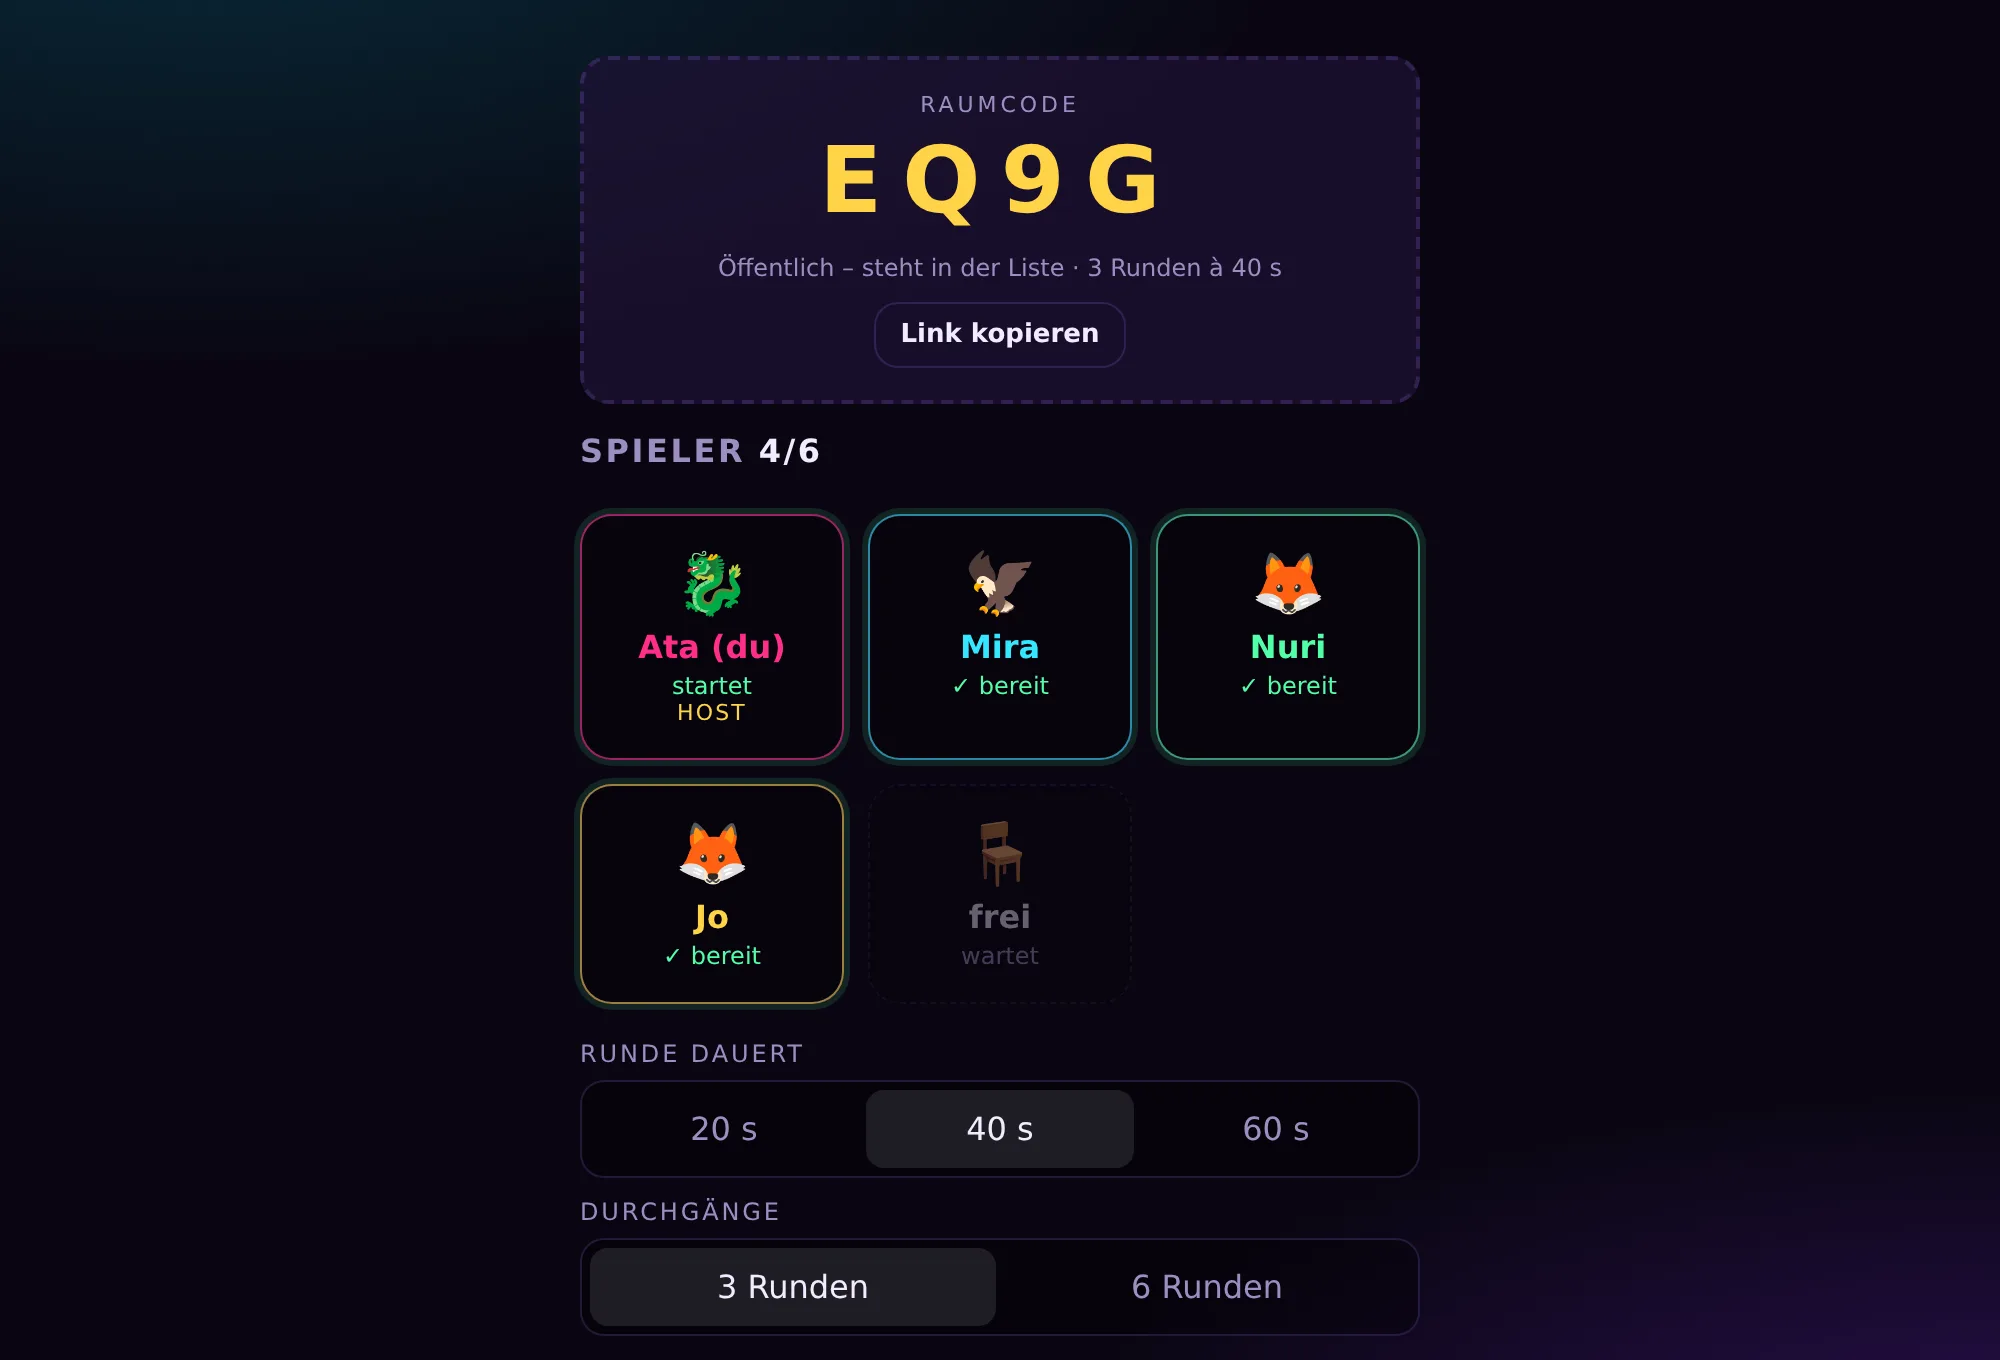
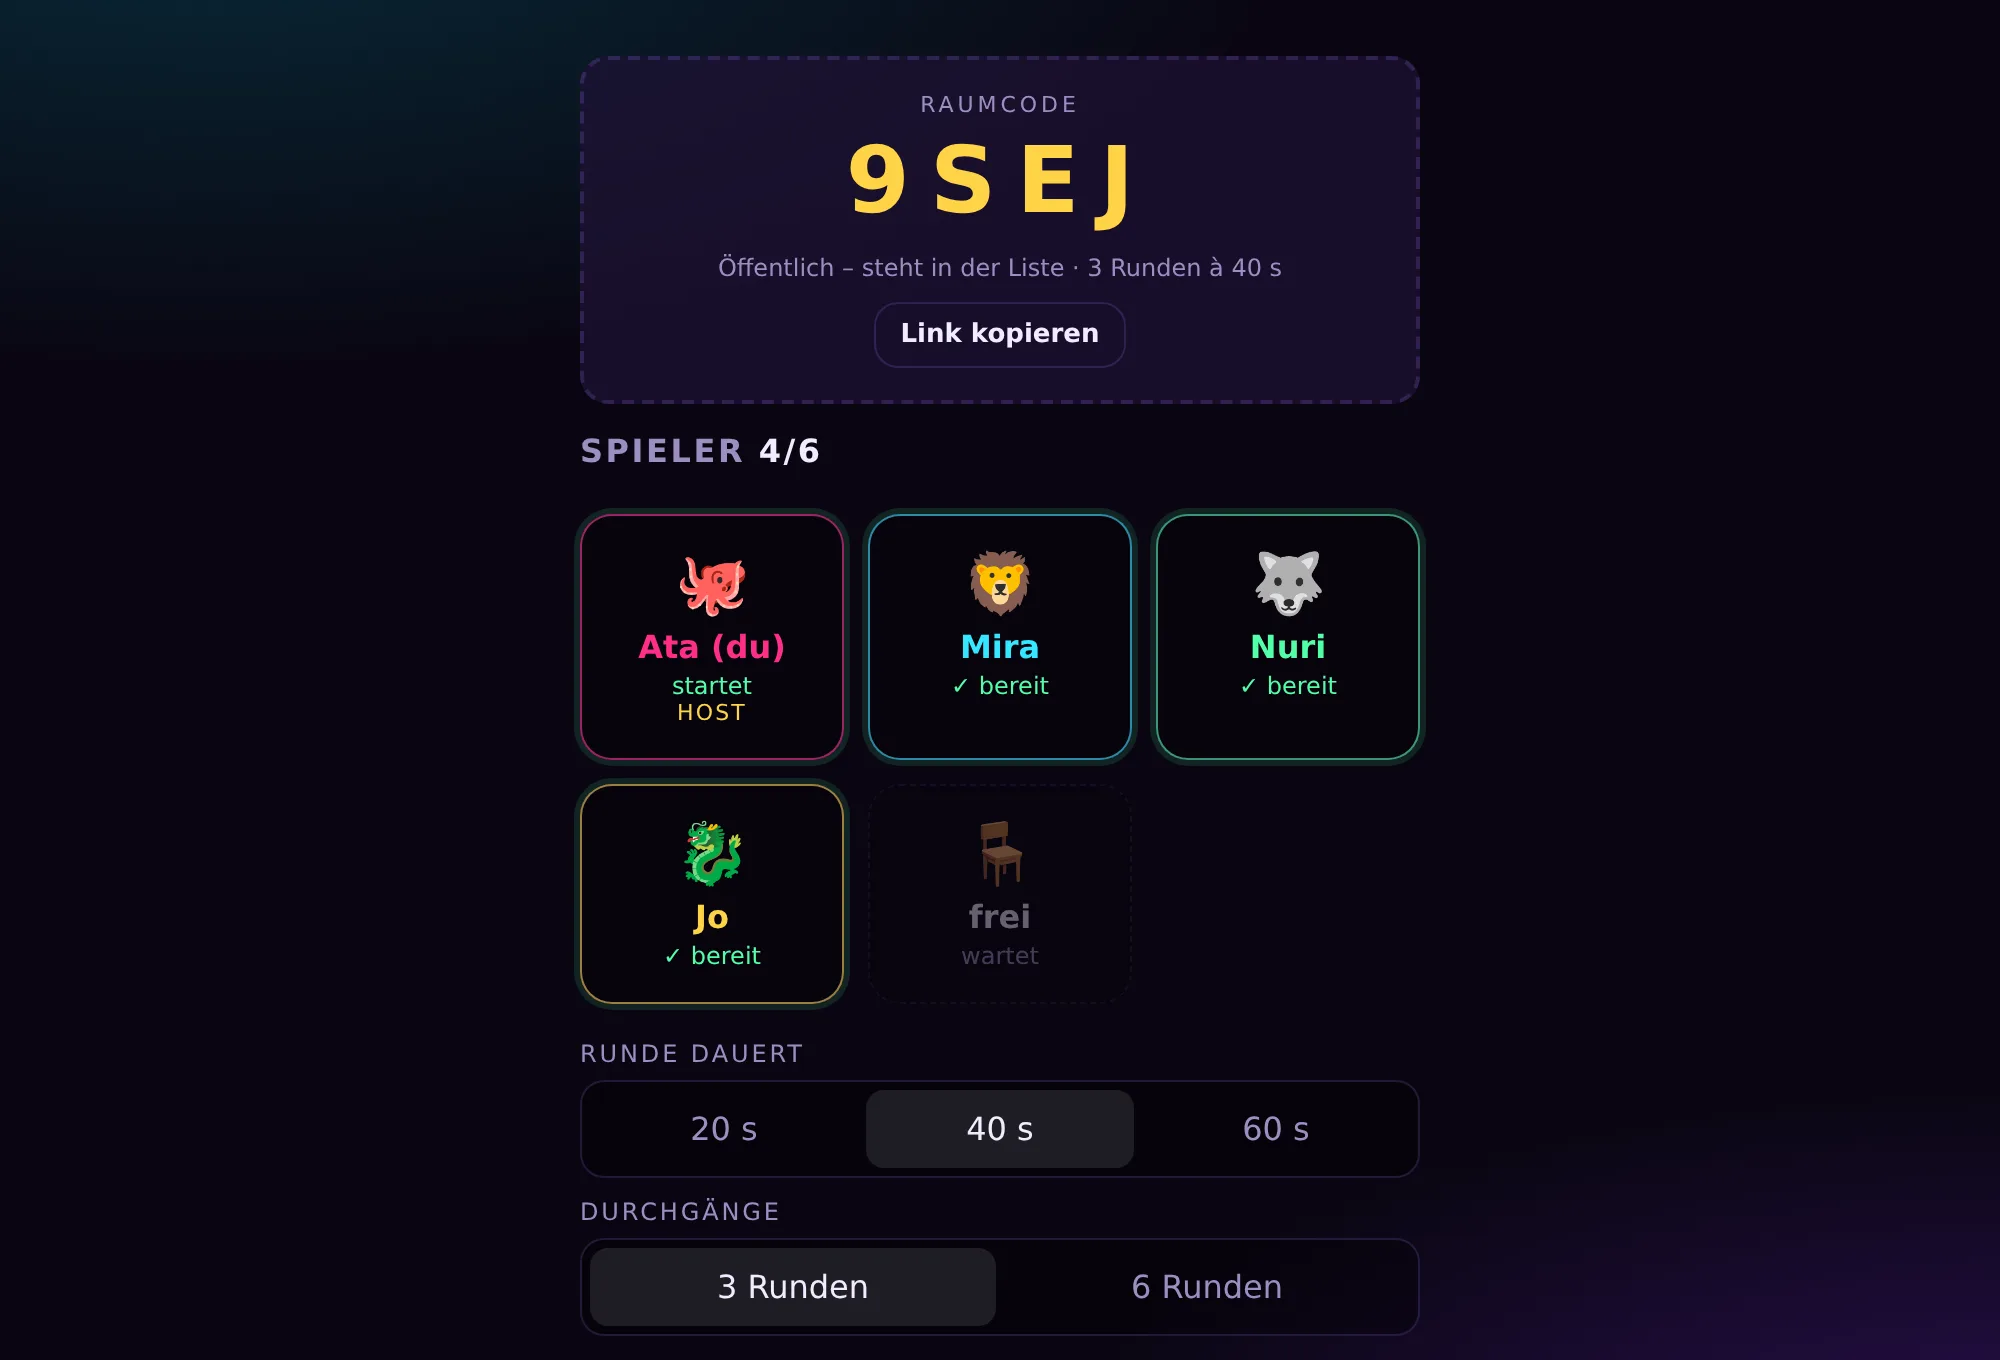
Cubes: volles Raster, Kachel und Bild nachgezogen
Das Raster ist jetzt immer voll und die Minusfelder sehen aus wie die
positiven. Kacheltext, Anleitungsdialog und Vorschaubild ziehen mit.

Neu in doku/pruefen.md: pruefe-cubes.mjs. Anlass ist der vierte Eintrag in der
Liste der Fehler, die nur im Browser auffielen – ein +1 in Runde 3 wurde ohne
Zahl gezeichnet, weil die Beschriftung am Wert hing statt an der Rundenart.
Genau dort ist die Zahl das Einzige, was Plus von Minus unterscheidet.

Geprüft: pruefe-startseite.mjs und pruefe-cubes.mjs grün, verteilen.mjs
--pruefen grün, alle zehn Spiele und /spiele/ mit 200.

diff --git a/spiele/index.html b/spiele/index.html
@@ -672,12 +672,12 @@ footer a { color: inherit; }
 
   <article class="game" style="--accent:#35e6ff; --accent2:#a06bff;"
            data-spiel="cubes" data-bild="bilder/cubes-spiel.webp"
-           data-kurz="Deine Farbe, deine Quadrate. Die der anderen kannst du nicht antippen.">
+           data-kurz="Ein volles Raster, deine Farbe darin. Die der anderen kannst du nicht antippen.">
     <button class="info" type="button" aria-label="Wie Cubes gespielt wird">i</button>
     <a class="game-link" href="/cubes/">
       <div class="icon">🟪</div>
       <h3>Cubes</h3>
-      <p>Jeder bekommt eine Farbe. Im Raster tauchen Quadrate auf und verschwinden wieder – triff deine eigenen, bevor sie weg sind. Drei Runden, jede mit einer neuen Gemeinheit.</p>
+      <p>Jeder bekommt eine Farbe. Das Raster ist immer voll und wechselt ständig – triff deine eigenen, bevor sie weg sind. Drei Runden, jede mit einer neuen Gemeinheit.</p>
       <div class="meta">
         <span class="dot" data-status></span>
         <span class="tag">2–6 Spieler</span>
@@ -691,9 +691,11 @@ footer a { color: inherit; }
     <template class="ablauf">
         <li>Raum aufmachen, Code weitergeben – zu zweit bis zu sechst. Jeder bekommt eine eigene Farbe.</li>
         <li>Alle sehen dasselbe Raster. Antippen kannst du nur die Quadrate in deiner Farbe; die fremden sind blass und reagieren nicht.</li>
+        <li>Das Raster ist immer voll – jede Lücke ist sofort wieder besetzt, und die Hälfte gehört den anderen. Seine eigenen zu finden ist die halbe Aufgabe.</li>
         <li><b>Runde 1 – Antippen:</b> deine Quadrate tauchen auf und verschwinden von allein wieder. Wer rechtzeitig trifft, bekommt den Punkt. Der Balken unten zeigt, wie lange es noch da ist.</li>
         <li><b>Runde 2 – Mehrfach:</b> dasselbe, aber jedes Quadrat braucht zwei bis vier Treffer. Punkte gibt es erst beim letzten – ein halb abgeräumtes zählt nicht.</li>
         <li><b>Runde 3 – Plus und Minus:</b> jetzt stehen Zahlen drin, auch negative. Tipp die positiven, lass die negativen liegen: sie gehen von selbst weg.</li>
+        <li>Die negativen sehen aus wie die positiven – nur die Zahl verrät sie. Genau darum greift man im Eifer daneben.</li>
         <li>Niemand kann dir dein Minusfeld drücken – das entscheidet der Server, nicht die Höflichkeit der anderen.</li>
         <li>Am Ende zählen die Punkte aus allen Runden zusammen.</li>
     </template>

diff --git a/doku/pruefen.md b/doku/pruefen.md
@@ -14,6 +14,7 @@ cd /var/www/html && node werkzeug/verteilen.mjs --pruefen
 cd /root/werkzeug-screenshots
 node pruefe-startseite.mjs     # alle Kacheln, alle Dialoge, alle Bilder
 node pruefe-flasche.mjs        # zeigt die Flasche wirklich auf die Person?
+node pruefe-cubes.mjs          # steht in jedem Quadrat die richtige Zahl?
 ```
 
 `probe.js` ist kein Testrahmen: ein Skript, das wirft, wenn etwas nicht stimmt,
@@ -27,7 +28,7 @@ werden die beiden nicht umgebaut – es fehlt der Nachweis.
 
 ## Der Browserlauf ist kein Luxus
 
-Drei echte Fehler sind nur dort aufgefallen, nie in der Probe. Zwei davon
+Vier echte Fehler sind nur dort aufgefallen, nie in der Probe. Zwei davon
 stammen aus Reaktion und Kurven, die es seit dem 09.08.2026 nicht mehr gibt –
 sie stehen trotzdem hier, denn der Grund für den Browserlauf gilt unverändert:
 
@@ -36,6 +37,11 @@ sie stehen trotzdem hier, denn der Grund für den Browserlauf gilt unverändert:
   und Probe waren richtig, und die Flasche zeigte trotzdem eine Vierteldrehung
   daneben.
 - **Kurven:** der gemeinsame Punktestand überlappte die Steuerleiste.
+- **Cubes:** ein `+1` in Runde 3 wurde ohne Zahl gezeichnet. Die Beschriftung
+  hing am Wert („1 zeigt nichts") statt an der Rundenart. In Runde 3 ist die
+  Zahl aber das Einzige, was ein Plus- von einem Minusfeld unterscheidet – die
+  beiden sehen absichtlich gleich aus. Server und Probe waren die ganze Zeit
+  grün.
 
 Vorsicht bei eigenen Prüfskripten: `.overlay` ohne `.an` ist `display:none` –
 auf „sichtbar" zu warten geht nie auf. Stattdessen `{ state: 'hidden' }`. Und
